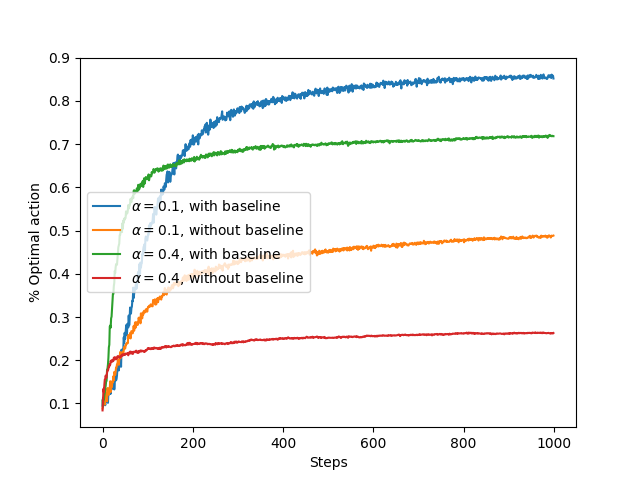
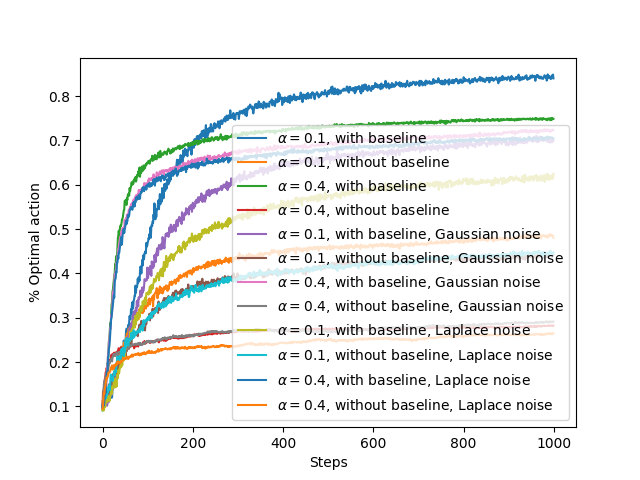
feat: add noise

diff --git a/gradient_bandits.py b/gradient_bandits.py
@@ -26,7 +26,7 @@ class Bandit:
     # @gradient: if True, use gradient based bandit algorithm
     # @gradient_baseline: if True, use average reward as baseline for gradient based bandit algorithm
     def __init__(self, k_arm=10, epsilon=0., initial=0., step_size=0.1, sample_averages=False, UCB_param=None,
-                 gradient=False, gradient_baseline=False, true_reward=0.):
+                 gradient=False, gradient_baseline=False, true_reward=0., noise_type=None, noise_scale=1.0):
         self.k = k_arm
         self.step_size = step_size
         self.sample_averages = sample_averages
@@ -39,6 +39,8 @@ class Bandit:
         self.true_reward = true_reward
         self.epsilon = epsilon
         self.initial = initial
+        self.noise_type = noise_type  # 'gaussian', 'laplace', or None
+        self.noise_scale = noise_scale  # Scale of the noise
 
     def reset(self):
         # real reward for each action
@@ -91,7 +93,15 @@ class Bandit:
                 baseline = self.average_reward
             else:
                 baseline = 0
-            self.q_estimation += self.step_size * (reward - baseline) * (one_hot - self.action_prob)
+
+            noise = 0
+            if self.noise_type == 'gaussian':
+                noise = np.random.normal(scale=self.noise_scale, size=self.k)
+            elif self.noise_type == 'laplace':
+                noise = np.random.laplace(scale=self.noise_scale, size=self.k)
+
+            self.q_estimation += self.step_size * (reward - baseline) * (one_hot - self.action_prob) + noise
+            # self.q_estimation += self.step_size * (reward - baseline) * (one_hot - self.action_prob) + noise
         else:
             # update estimation with constant step size
             self.q_estimation[action] += self.step_size * (reward - self.q_estimation[action])
@@ -115,69 +125,69 @@ def simulate(runs, time, bandits):
     return mean_best_action_counts, mean_rewards
 
 
-def figure_2_1():
-    plt.violinplot(dataset=np.random.randn(200, 10) + np.random.randn(10))
-    plt.xlabel("Action")
-    plt.ylabel("Reward distribution")
-    plt.savefig('../images/figure_2_1.png')
-    plt.close()
+# def figure_2_1():
+#     plt.violinplot(dataset=np.random.randn(200, 10) + np.random.randn(10))
+#     plt.xlabel("Action")
+#     plt.ylabel("Reward distribution")
+#     plt.savefig('../images/figure_2_1.png')
+#     plt.close()
 
 
-def figure_2_2(runs=2000, time=1000):
-    epsilons = [0, 0.1, 0.01]
-    bandits = [Bandit(epsilon=eps, sample_averages=True) for eps in epsilons]
-    best_action_counts, rewards = simulate(runs, time, bandits)
+# def figure_2_2(runs=2000, time=1000):
+#     epsilons = [0, 0.1, 0.01]
+#     bandits = [Bandit(epsilon=eps, sample_averages=True) for eps in epsilons]
+#     best_action_counts, rewards = simulate(runs, time, bandits)
 
-    plt.figure(figsize=(10, 20))
+#     plt.figure(figsize=(10, 20))
 
-    plt.subplot(2, 1, 1)
-    for eps, rewards in zip(epsilons, rewards):
-        plt.plot(rewards, label='$\epsilon = %.02f$' % (eps))
-    plt.xlabel('steps')
-    plt.ylabel('average reward')
-    plt.legend()
+#     plt.subplot(2, 1, 1)
+#     for eps, rewards in zip(epsilons, rewards):
+#         plt.plot(rewards, label='$\epsilon = %.02f$' % (eps))
+#     plt.xlabel('steps')
+#     plt.ylabel('average reward')
+#     plt.legend()
 
-    plt.subplot(2, 1, 2)
-    for eps, counts in zip(epsilons, best_action_counts):
-        plt.plot(counts, label='$\epsilon = %.02f$' % (eps))
-    plt.xlabel('steps')
-    plt.ylabel('% optimal action')
-    plt.legend()
+#     plt.subplot(2, 1, 2)
+#     for eps, counts in zip(epsilons, best_action_counts):
+#         plt.plot(counts, label='$\epsilon = %.02f$' % (eps))
+#     plt.xlabel('steps')
+#     plt.ylabel('% optimal action')
+#     plt.legend()
 
-    plt.savefig('../images/figure_2_2.png')
-    plt.close()
-
-
-def figure_2_3(runs=2000, time=1000):
-    bandits = []
-    bandits.append(Bandit(epsilon=0, initial=5, step_size=0.1))
-    bandits.append(Bandit(epsilon=0.1, initial=0, step_size=0.1))
-    best_action_counts, _ = simulate(runs, time, bandits)
-
-    plt.plot(best_action_counts[0], label='$\epsilon = 0, q = 5$')
-    plt.plot(best_action_counts[1], label='$\epsilon = 0.1, q = 0$')
-    plt.xlabel('Steps')
-    plt.ylabel('% optimal action')
-    plt.legend()
-
-    plt.savefig('../images/figure_2_3.png')
-    plt.close()
+#     plt.savefig('../images/figure_2_2.png')
+#     plt.close()
 
 
-def figure_2_4(runs=2000, time=1000):
-    bandits = []
-    bandits.append(Bandit(epsilon=0, UCB_param=2, sample_averages=True))
-    bandits.append(Bandit(epsilon=0.1, sample_averages=True))
-    _, average_rewards = simulate(runs, time, bandits)
+# def figure_2_3(runs=2000, time=1000):
+#     bandits = []
+#     bandits.append(Bandit(epsilon=0, initial=5, step_size=0.1))
+#     bandits.append(Bandit(epsilon=0.1, initial=0, step_size=0.1))
+#     best_action_counts, _ = simulate(runs, time, bandits)
 
-    plt.plot(average_rewards[0], label='UCB $c = 2$')
-    plt.plot(average_rewards[1], label='epsilon greedy $\epsilon = 0.1$')
-    plt.xlabel('Steps')
-    plt.ylabel('Average reward')
-    plt.legend()
+#     plt.plot(best_action_counts[0], label='$\epsilon = 0, q = 5$')
+#     plt.plot(best_action_counts[1], label='$\epsilon = 0.1, q = 0$')
+#     plt.xlabel('Steps')
+#     plt.ylabel('% optimal action')
+#     plt.legend()
 
-    plt.savefig('../images/figure_2_4.png')
-    plt.close()
+#     plt.savefig('../images/figure_2_3.png')
+#     plt.close()
+
+
+# def figure_2_4(runs=2000, time=1000):
+#     bandits = []
+#     bandits.append(Bandit(epsilon=0, UCB_param=2, sample_averages=True))
+#     bandits.append(Bandit(epsilon=0.1, sample_averages=True))
+#     _, average_rewards = simulate(runs, time, bandits)
+
+#     plt.plot(average_rewards[0], label='UCB $c = 2$')
+#     plt.plot(average_rewards[1], label='epsilon greedy $\epsilon = 0.1$')
+#     plt.xlabel('Steps')
+#     plt.ylabel('Average reward')
+#     plt.legend()
+
+#     plt.savefig('../images/figure_2_4.png')
+#     plt.close()
 
 
 def figure_2_5(runs=2000, time=1000):
@@ -186,11 +196,39 @@ def figure_2_5(runs=2000, time=1000):
     bandits.append(Bandit(gradient=True, step_size=0.1, gradient_baseline=False, true_reward=4))
     bandits.append(Bandit(gradient=True, step_size=0.4, gradient_baseline=True, true_reward=4))
     bandits.append(Bandit(gradient=True, step_size=0.4, gradient_baseline=False, true_reward=4))
+
+    # Bandits with Gaussian noise
+    bandits.append(Bandit(gradient=True, step_size=0.1, gradient_baseline=True, true_reward=4, noise_type='gaussian', noise_scale=0.1))
+    bandits.append(Bandit(gradient=True, step_size=0.1, gradient_baseline=False, true_reward=4, noise_type='gaussian', noise_scale=0.1))
+    bandits.append(Bandit(gradient=True, step_size=0.4, gradient_baseline=True, true_reward=4, noise_type='gaussian', noise_scale=0.1))
+    bandits.append(Bandit(gradient=True, step_size=0.4, gradient_baseline=False, true_reward=4, noise_type='gaussian', noise_scale=0.1))
+
+    # Bandits with Laplace noise
+    bandits.append(Bandit(gradient=True, step_size=0.1, gradient_baseline=True, true_reward=4, noise_type='laplace', noise_scale=0.1))
+    bandits.append(Bandit(gradient=True, step_size=0.1, gradient_baseline=False, true_reward=4, noise_type='laplace', noise_scale=0.1))
+    bandits.append(Bandit(gradient=True, step_size=0.4, gradient_baseline=True, true_reward=4, noise_type='laplace', noise_scale=0.1))
+    bandits.append(Bandit(gradient=True, step_size=0.4, gradient_baseline=False, true_reward=4, noise_type='laplace', noise_scale=0.1))
+
     best_action_counts, _ = simulate(runs, time, bandits)
-    labels = [r'$\alpha = 0.1$, with baseline',
-              r'$\alpha = 0.1$, without baseline',
-              r'$\alpha = 0.4$, with baseline',
-              r'$\alpha = 0.4$, without baseline']
+    labels = [
+        r'$\alpha = 0.1$, with baseline',
+        r'$\alpha = 0.1$, without baseline',
+        r'$\alpha = 0.4$, with baseline',
+        r'$\alpha = 0.4$, without baseline',
+        r'$\alpha = 0.1$, with baseline, Gaussian noise',
+        r'$\alpha = 0.1$, without baseline, Gaussian noise',
+        r'$\alpha = 0.4$, with baseline, Gaussian noise',
+        r'$\alpha = 0.4$, without baseline, Gaussian noise',
+        r'$\alpha = 0.1$, with baseline, Laplace noise',
+        r'$\alpha = 0.1$, without baseline, Laplace noise',
+        r'$\alpha = 0.4$, with baseline, Laplace noise',
+        r'$\alpha = 0.4$, without baseline, Laplace noise'
+    ]
+    # best_action_counts, _ = simulate(runs, time, bandits)
+    # labels = [r'$\alpha = 0.1$, with baseline',
+    #           r'$\alpha = 0.1$, without baseline',
+    #           r'$\alpha = 0.4$, with baseline',
+    #           r'$\alpha = 0.4$, without baseline']
 
     for i in range(len(bandits)):
         plt.plot(best_action_counts[i], label=labels[i])
@@ -202,37 +240,37 @@ def figure_2_5(runs=2000, time=1000):
     plt.close()
 
 
-def figure_2_6(runs=2000, time=1000):
-    labels = ['epsilon-greedy', 'gradient bandit',
-              'UCB', 'optimistic initialization']
-    generators = [lambda epsilon: Bandit(epsilon=epsilon, sample_averages=True),
-                  lambda alpha: Bandit(gradient=True, step_size=alpha, gradient_baseline=True),
-                  lambda coef: Bandit(epsilon=0, UCB_param=coef, sample_averages=True),
-                  lambda initial: Bandit(epsilon=0, initial=initial, step_size=0.1)]
-    parameters = [np.arange(-7, -1, dtype=np.float),
-                  np.arange(-5, 2, dtype=np.float),
-                  np.arange(-4, 3, dtype=np.float),
-                  np.arange(-2, 3, dtype=np.float)]
+# def figure_2_6(runs=2000, time=1000):
+#     labels = ['epsilon-greedy', 'gradient bandit',
+#               'UCB', 'optimistic initialization']
+#     generators = [lambda epsilon: Bandit(epsilon=epsilon, sample_averages=True),
+#                   lambda alpha: Bandit(gradient=True, step_size=alpha, gradient_baseline=True),
+#                   lambda coef: Bandit(epsilon=0, UCB_param=coef, sample_averages=True),
+#                   lambda initial: Bandit(epsilon=0, initial=initial, step_size=0.1)]
+#     parameters = [np.arange(-7, -1, dtype=np.float),
+#                   np.arange(-5, 2, dtype=np.float),
+#                   np.arange(-4, 3, dtype=np.float),
+#                   np.arange(-2, 3, dtype=np.float)]
 
-    bandits = []
-    for generator, parameter in zip(generators, parameters):
-        for param in parameter:
-            bandits.append(generator(pow(2, param)))
+#     bandits = []
+#     for generator, parameter in zip(generators, parameters):
+#         for param in parameter:
+#             bandits.append(generator(pow(2, param)))
 
-    _, average_rewards = simulate(runs, time, bandits)
-    rewards = np.mean(average_rewards, axis=1)
+#     _, average_rewards = simulate(runs, time, bandits)
+#     rewards = np.mean(average_rewards, axis=1)
 
-    i = 0
-    for label, parameter in zip(labels, parameters):
-        l = len(parameter)
-        plt.plot(parameter, rewards[i:i+l], label=label)
-        i += l
-    plt.xlabel('Parameter($2^x$)')
-    plt.ylabel('Average reward')
-    plt.legend()
+#     i = 0
+#     for label, parameter in zip(labels, parameters):
+#         l = len(parameter)
+#         plt.plot(parameter, rewards[i:i+l], label=label)
+#         i += l
+#     plt.xlabel('Parameter($2^x$)')
+#     plt.ylabel('Average reward')
+#     plt.legend()
 
-    plt.savefig('../images/figure_2_6.png')
-    plt.close()
+#     plt.savefig('../images/figure_2_6.png')
+#     plt.close()
 
 
 if __name__ == '__main__':
